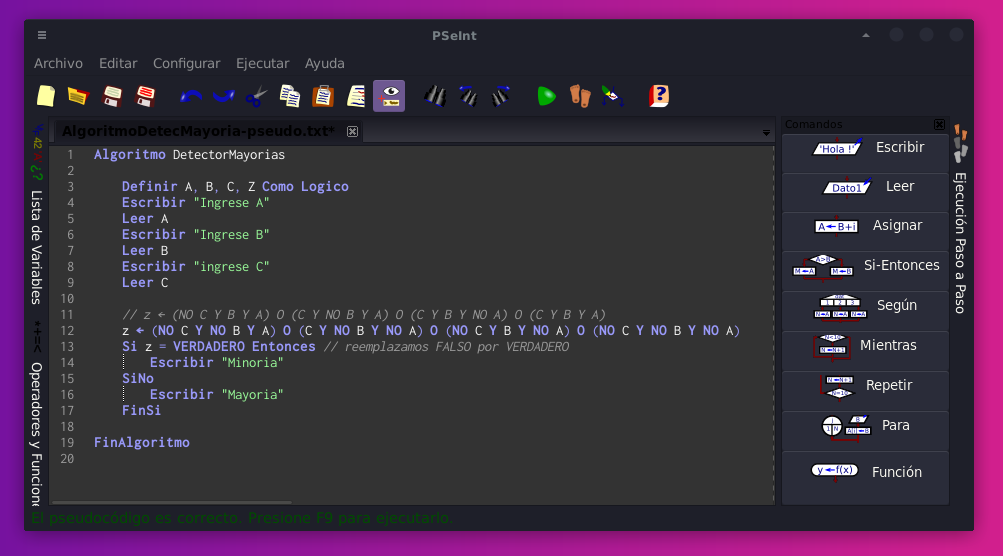
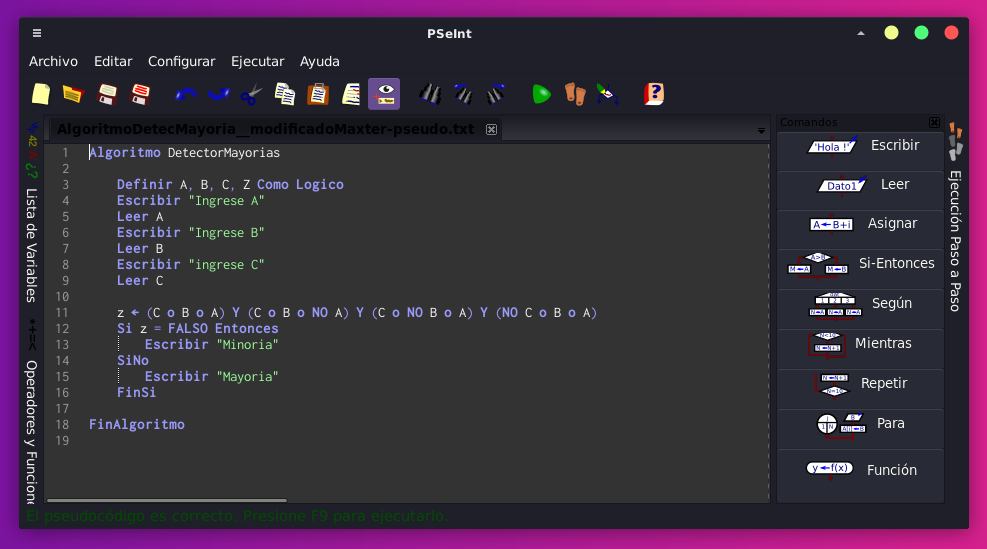
- fix tp 03, notas clase 06 logic

Changed region(s): [[0.0, 0.031, 1.0, 0.9909]]

diff --git a/114-logica-computacional/06-clase-114.md b/114-logica-computacional/06-clase-114.md
@@ -1,0 +1,67 @@
+### Clase 06
+Repaso de temas tratados
+Repaso por temas de parcial
+
+Detector de mayoría expresada en tabla de verdad:
+
+| A | B | C | f | m  |  
+|---|---|---|---|----| 
+| 0 | 0 | 0 | 0 | M0 |
+| 0 | 0 | 1 | 0 | M1 | 
+| 0 | 1 | 0 | 0 | M2 |
+| 0 | 1 | 1 | 1 | m3 |
+| 1 | 0 | 0 | 0 | M4 |
+| 1 | 0 | 1 | 1 | m5 |
+| 1 | 1 | 0 | 1 | m6 |
+| 1 | 1 | 1 | 1 | m7 |
+
+Lo expreso como suma de productos
+La función se puede expresar como:
+
+`f = m3 + m5 + m6 + m7`
+
+Los minitérminos son los que hacen que el valor de la función sea 1.
+
+Entonces:
+
+`Z = m3 + m5 + m6 + m7`
+`Z = (¬c . b . a) + (c . ¬b . a) + (c . b . ¬a) + (c . b . a)`
+
+![](Pasted%20image%2020220419190706.png)
+
+Para hacerlo con maxitérminos deberíamos hacer producto de suma:
+
+`Z = M0 . M1 . M2 . M4`
+`Z = (C + B + A) . (C + B + ¬A) . (C + ¬B + A) . (¬C + B + A)`
+
+Entonces el error del TP se soluciona así:
+
+`z <- (C o B o A) Y (C o B o NO A) Y (C o NO B o A) Y (NO C o B o A)`
+
+#### Simplificación de funciones
+Con las leyes de boole simplificamos las funciones:
+ej:
+
+![](Pasted%20image%2020220419202900.png)
+
+![](Pasted%20image%2020220419202953.png)
+
+![](Pasted%20image%2020220419204522.png)
+
+Se puede simplificar más? Por ahora no lo hacemos
+
+![](Pasted%20image%2020220419204714.png)
+
+Chequeamos con la tabla de verdad si funcionan los resultados de nuestra función simplificada
+
+#### Código gray o reflejado
+
+![](Pasted%20image%2020220419205709.png)
+
+![](Pasted%20image%2020220419210143.png)
+
+![](Pasted%20image%2020220419211122.png)
+
+Tarea: reformular TP anteriores
+Próxima clase vemos Mapa de Karnaugh
+

diff --git a/114-logica-computacional/practica-detector-mayoria.md b/114-logica-computacional/practica-detector-mayoria.md
@@ -19,11 +19,38 @@ Solución:
 2) Qué modificarían para que funcione con Maxitérminos. Fíjense que el algoritmo está hecho con minitérminos.
 
 Solución:
-Para que funcione con Maxitérminos modificaría lo siguiente: Cambiar la función para que encuentre los negados **(línea 12)** y luego cambiar la condición de Z a Verdadero en vez de Falso **(línea 13).**
+
+Dado que el minitérmino es la suma del producto (de los resultados que dan 1) y se niegan los 0. Y dado que el maxitérmino es el producto de la suma (de los resultados que dan 0) y se niegan los 1:  
+
+Para que funcione con Maxitérminos modificaría lo siguiente. Utilizamos las operaciones donde el resultado de la función fue 0. Las variables C B y A pasan de estar multiplicando a **sumando**. También cambiamos los operadores **OR** por **AND,** para obtener el **producto de la suma**. De forma tal que quede el siguiente algoritmo:
 
 - Algoritmo detector mayoría (pseudo):
 
 ![](114-assets/psint-03.png)
+
+- tipeado para copiar y pegar:
+
+```
+Algoritmo DetectorMayorias
+	
+	Definir A, B, C, Z Como Logico
+	Escribir "Ingrese A"
+	Leer A
+	Escribir "Ingrese B"
+	Leer B
+	Escribir "ingrese C"
+	Leer C
+	
+	z <- (C o B o A) Y (C o B o NO A) Y (C o NO B o A) Y (NO C o B o A)
+	Si z = FALSO Entonces
+		Escribir "Minoria"
+	SiNo
+		Escribir "Mayoria"
+	FinSi
+	
+FinAlgoritmo
+
+```
 
 3) Hacer un diagrama de flujo que muestre de manera gráfica el algoritmo.
 
